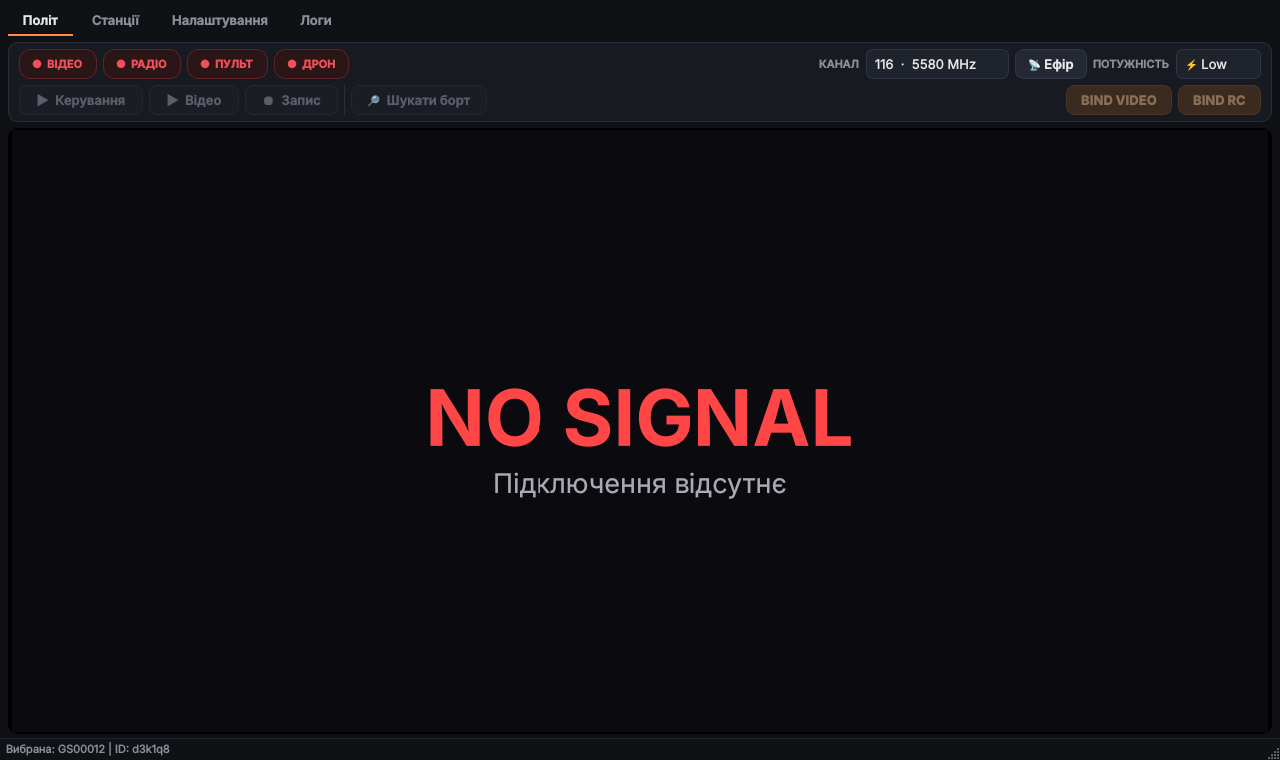
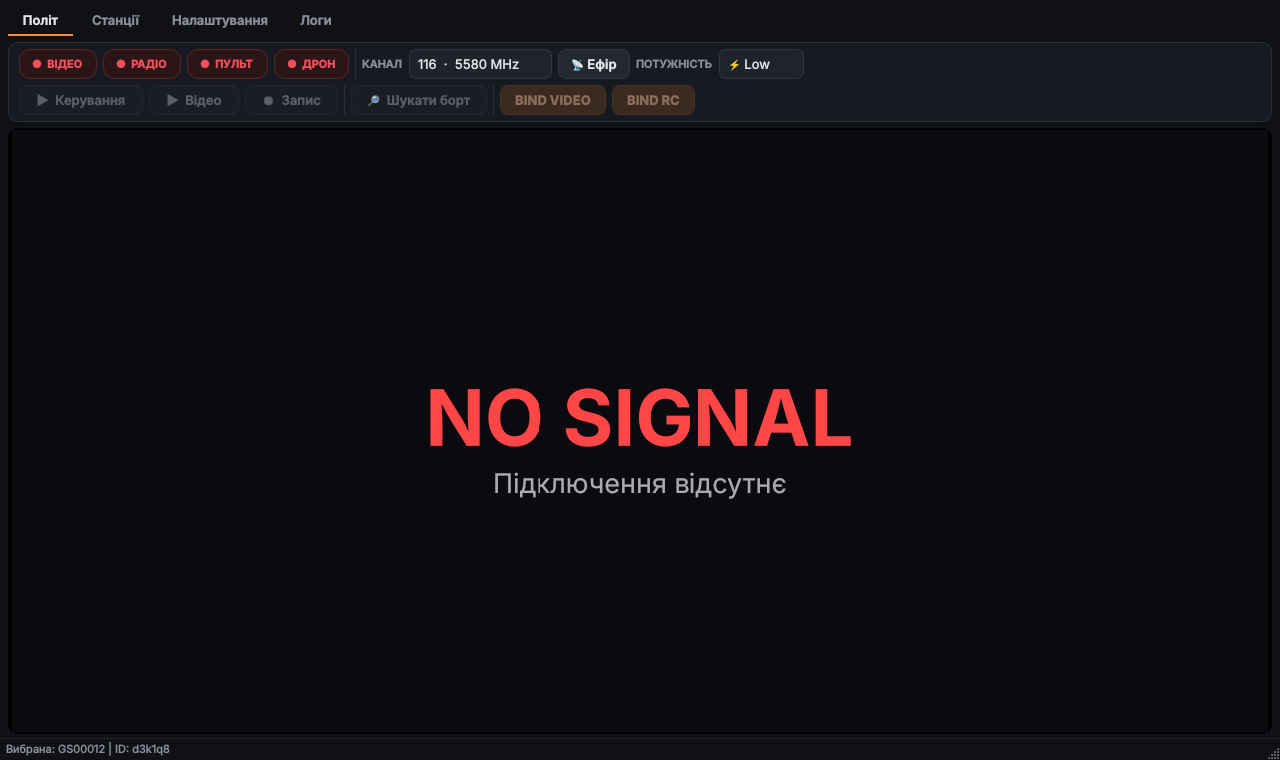
README: панель «Політ» — усе притиснуте ліворуч (1.7.3)
Claude-Session: https://claude.ai/code/session_01Don98DffMVJhYaKky6CDwg

Changed region(s): [[0.2812, 0.0605, 1.0, 0.1513]]

diff --git a/README.md b/README.md
@@ -112,8 +112,8 @@
 
 Угорі — панель керування у два ряди, під нею — відеоекран.
 
-- **Перший ряд — стан і радіо:** чіпи ВІДЕО / РАДІО / ПУЛЬТ / ДРОН зліва; канал, «Ефір» і потужність справа.
-- **Другий ряд — дії:** «Керування», «Відео», «Запис», «Шукати борт» зліва; BIND VIDEO і BIND RC справа.
+- **Перший ряд — стан і радіо:** чіпи ВІДЕО / РАДІО / ПУЛЬТ / ДРОН, за ними канал, «Ефір» і потужність.
+- **Другий ряд — дії:** «Керування», «Відео», «Запис», за ними «Шукати борт», BIND VIDEO і BIND RC.
 
 ### Чіпи стану
 
